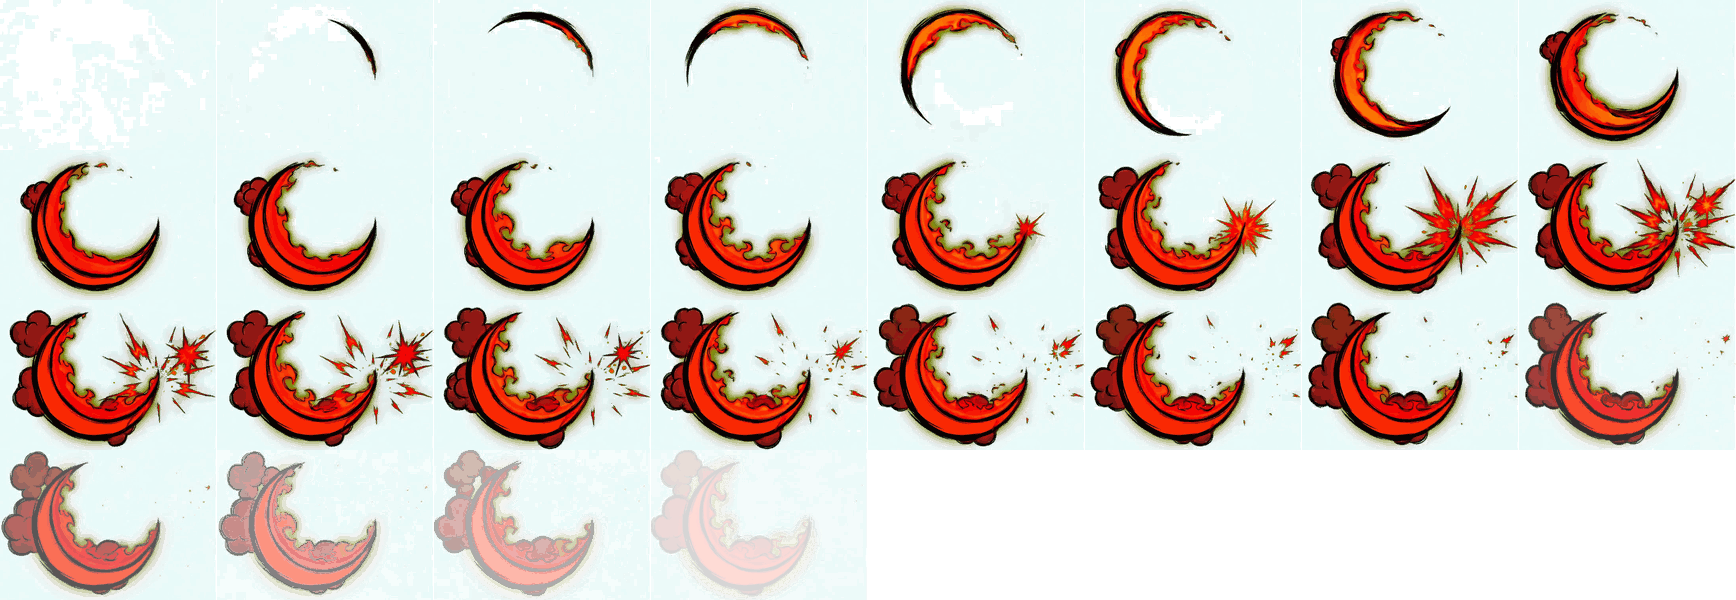
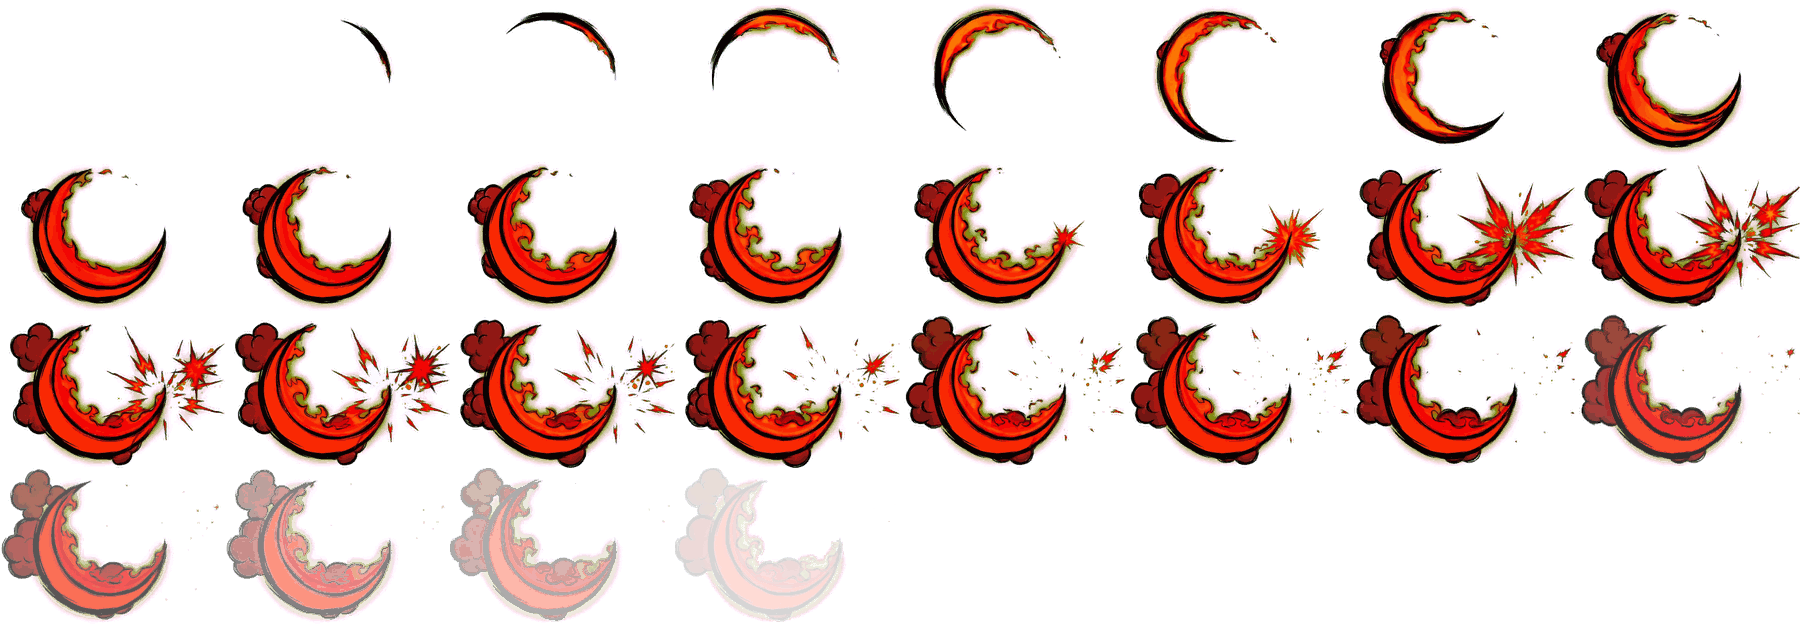
Berserker: hook chain and hell shackle cut; all 11 effects showcase (tools/video/vfx_showcase.py); keyer drops background noise
Claude-Session: https://claude.ai/code/session_01TXxUxQ6wjWh66ESj3NLopA

diff --git a/tools/video/vfx_showcase.py b/tools/video/vfx_showcase.py
@@ -1,0 +1,36 @@
+# Every cut Berserker effect playing at once next to the hero at game scale (owner 2026-11-10 "ทำมาให้ฉันดูสกิลทั้งหมด").
+#   python3 tools/video/vfx_showcase.py <out.gif>
+import json, sys
+from PIL import Image, ImageDraw, ImageFont
+Z = 1.5                                   # picture px per world px (the hero's own pixel size)
+F = ImageFont.truetype('/usr/share/fonts/opentype/tlwg/Loma-Bold.otf', 22)
+# key, Thai label, where: front = in front of him on the ground, on = centred on him, ground squash for flat (top view) effects
+L = [('vfx_bzswing', 'ตีธรรมดา · รอยดาบ', 'front', 1), ('vfx_bzchainall', 'Q โซ่ดึงรอบตัว', 'on', .6), ('vfx_bzchainring', 'Q วงฟันรอบตัว', 'on', .6),
+     ('vfx_bztriple', 'E ฟาดสามยมทูต', 'front', 1), ('vfx_bzslam', 'R/F ระเบิดทุบพื้น', 'front', 1), ('vfx_bzslamring', 'R/F คลื่นวงบนพื้น', 'front', .6),
+     ('vfx_bzcrack', 'R รอยแตกพุ่ง', 'front', 1), ('vfx_bzhook', 'F โซ่กระชาก', 'hand', 1), ('vfx_bzshackle', 'Z ตรวนนรก', 'front', .6),
+     ('vfx_bzrage', 'X ออร่าคลั่ง', 'on', 1), ('vfx_bzwave', 'X คลื่นฟัน', 'front', 1)]
+man = json.load(open('fx/manifest.json'))
+hero = Image.open('art/incoming/action/berserker/pl_dl_paid/Idle/rotations/south-east.png').convert('RGBA'); hero = hero.crop(hero.getbbox())
+PW, PH, COLS = 520, 400, 4; ROWS = -(-len(L) // COLS); T = 72   # 3 s at 24 fps
+sheets = {k: Image.open(f'fx/{k}.png').convert('RGBA') for k, *_ in L}
+def cell(k, i):
+    m = man[k]; c = m.get('cols', m['n']); f = sheets[k].crop(((i % c) * m['w'], (i // c) * m['h'], (i % c + 1) * m['w'], (i // c + 1) * m['h'])); return f, m
+frames = []
+for t in range(T):
+    G = Image.new('RGBA', (PW * COLS, PH * ROWS), (30, 30, 30, 255))
+    for j, (k, lab, where, sq) in enumerate(L):
+        P = Image.new('RGBA', (PW, PH), (92, 150, 62, 255)); hx, hy = 150, PH - 70
+        m = man[k]; i = t % (m['n'] + 10); f, _ = cell(k, min(i, m['n'] - 1)); vis = i < m['n'] or k == 'vfx_bzrage'
+        if k == 'vfx_bzrage': f, _ = cell(k, t % m['n'])
+        f = f.resize((round(m['w'] * Z), round(m['h'] * Z * sq)), Image.LANCZOS); ax, ay = m['ax'] * Z, m['ay'] * Z * sq
+        if where == 'on': ex, ey = hx, hy
+        elif where == 'hand': ex, ey = hx + 20, hy - 50
+        else: ex, ey = hx + 170, hy
+        behind = k in ('vfx_bzchainall', 'vfx_bzchainring', 'vfx_bzslamring', 'vfx_bzshackle', 'vfx_bzrage')   # the aura burns behind him
+        if behind and vis: P.alpha_composite(f, (round(ex - ax), round(ey - ay)))
+        P.alpha_composite(hero, (hx - hero.width // 2, hy - hero.height))
+        if not behind and vis: P.alpha_composite(f, (round(ex - ax), round(ey - ay)))
+        d = ImageDraw.Draw(P); d.rectangle((0, 0, PW, 34), fill=(0, 0, 0, 190)); d.text((10, 4), lab, font=F, fill=(255, 225, 120, 255))
+        G.alpha_composite(P, ((j % COLS) * PW, (j // COLS) * PH))
+    frames.append(G.resize((G.width * 3 // 4, G.height * 3 // 4), Image.LANCZOS).convert('RGB').quantize(200, dither=Image.Dither.NONE))
+frames[0].save(sys.argv[1], save_all=True, append_images=frames[1:], duration=42, loop=0); print(sys.argv[1], len(frames))

diff --git a/tools/video/vfx_cut.py b/tools/video/vfx_cut.py
@@ -33,7 +33,7 @@ def keyer(fr, kc, edge):
     f = fr.astype(np.int16); r, g, b = f[..., 0], f[..., 1], f[..., 2]
     if kc[1] >= max(kc[0], kc[2]):                              # green screen
         mx = np.maximum(r, b); d = g - mx; dk = kc[1] - max(kc[0], kc[2])
-        a = np.clip(1.15 - d / dk * 1.15, 0, 1); a[a < .08] = 0            # owner: smoke came out green; a = how much of the key is NOT there
+        a = np.clip((1.15 - d / dk * 1.15 - .16) / .84, 0, 1)   # below ~16% = background noise (it left a faint box round some effects)            # owner: smoke came out green; a = how much of the key is NOT there
         aa = np.maximum(a, .05)[..., None]; un = (np.dstack([r, g, b]) - (1 - aa) * np.array(kc)) / aa   # take the key colour out of half see-through pixels
         r, g, b = [np.clip(un[..., c], 0, 255).astype(np.int16) for c in range(3)]; g = np.minimum(g, np.maximum(r, b) + 12)
     else:                                                        # magenta screen
